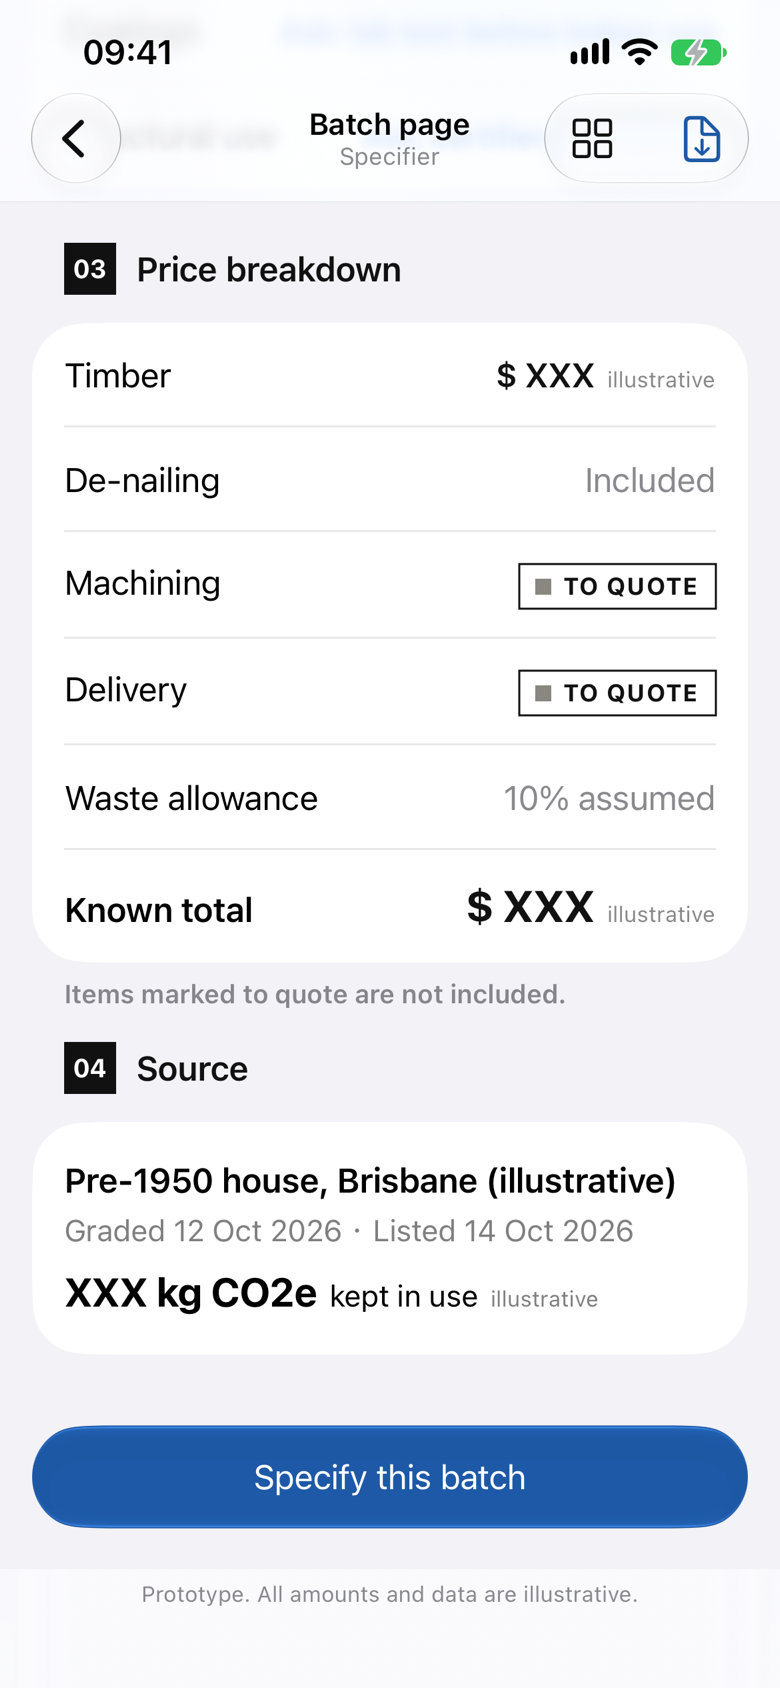
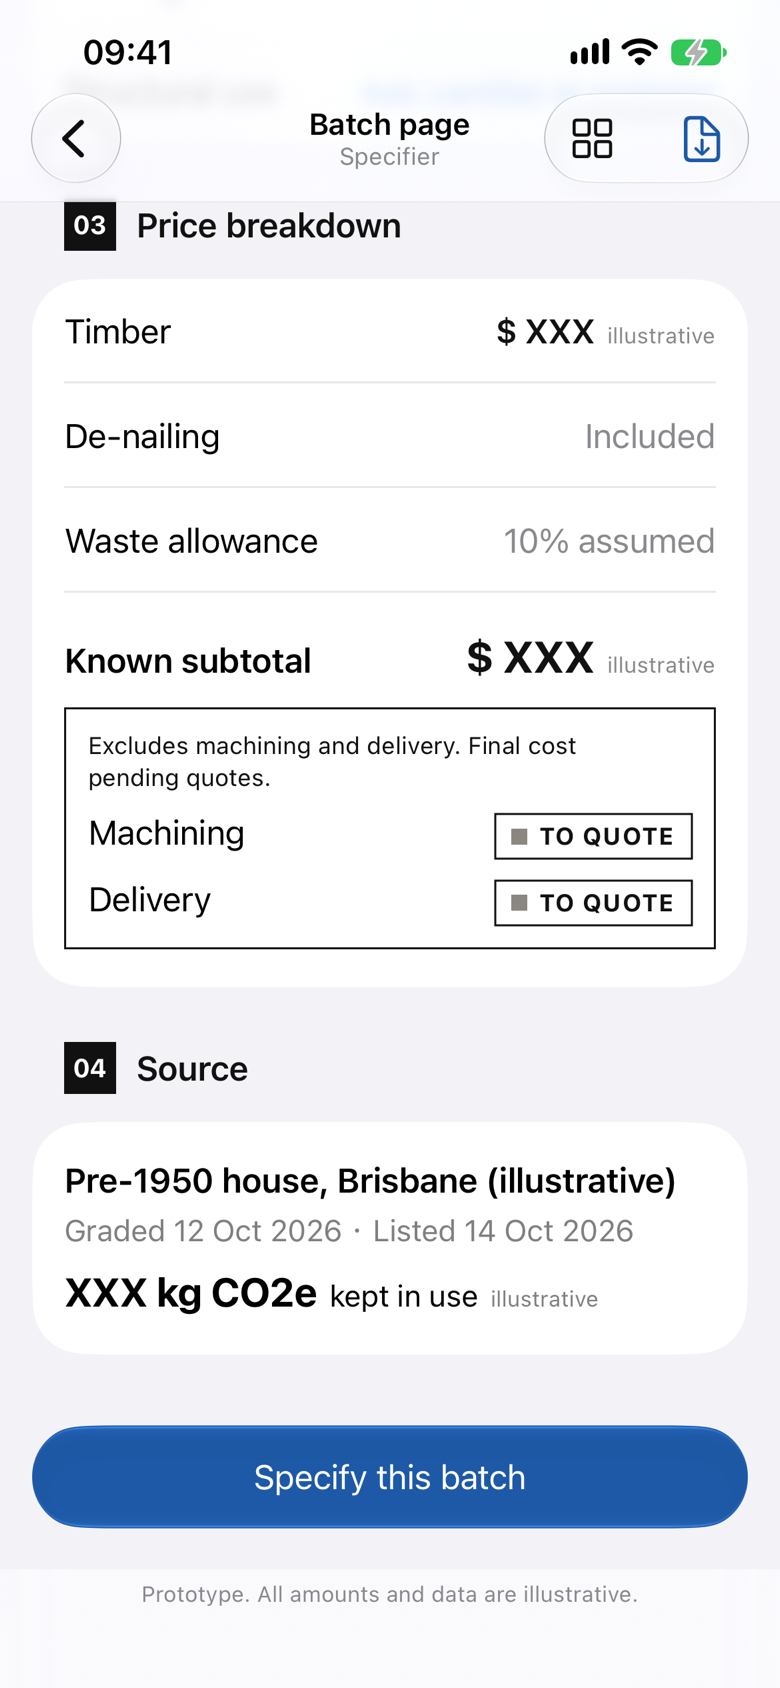
App v2 from 6.4 user testing: NOT PAID YET tag and rules on listing, Known subtotal with excluded costs, accept warning (web and iOS)

Changed region(s): [[0.0615, 0.0924, 0.5846, 0.5545], [0.5846, 0.1848, 0.9231, 0.5545], [0.0923, 0.5853, 0.7077, 0.6161]]

diff --git a/ios/NextSpan/Screens/ListingView.swift b/ios/NextSpan/Screens/ListingView.swift
@@ -2,6 +2,7 @@ import SwiftUI
 
 struct ListingView: View {
     @Environment(AppState.self) private var state
+    @State private var notAvailable = false
 
     private var priceNote: String {
         let n = abs(state.priceStep)
@@ -56,7 +57,19 @@ struct ListingView: View {
 
                 Section {
                     VStack(alignment: .leading, spacing: 12) {
-                        StatusTag(text: state.listed ? "Locked" : "Calculated", kind: state.listed ? .rebate : .neutral)
+                        HStack(spacing: 6) {
+                            StatusTag(text: state.listed ? "Locked" : "Calculated", kind: state.listed ? .rebate : .neutral)
+                            if state.listed {
+                                // v2: says plainly that LOCKED is not money in hand.
+                                Text("NOT PAID YET")
+                                    .font(.caption.weight(.bold)).tracking(0.6)
+                                    .foregroundStyle(Color.nsInk)
+                                    .padding(.horizontal, 8).padding(.vertical, 3)
+                                    .background(.white)
+                                    .overlay(Rectangle().strokeBorder(Color.nsInk, lineWidth: 2))
+                            }
+                        }
+                        .fixedSize(horizontal: false, vertical: true)
                         Money(font: .system(size: 44, weight: .bold))
                         ZStack(alignment: .leading) {
                             Rectangle().stroke(Color.nsRebate, lineWidth: 1)
@@ -66,8 +79,25 @@ struct ListingView: View {
                         .frame(height: 44)
                         .accessibilityHidden(true)
                         if state.listed {
-                            Text("Locked at listing. Released when a buyer accepts.")
-                                .font(.callout.weight(.semibold))
+                            VStack(alignment: .leading, spacing: 10) {
+                                RuleLine(n: 1, text: "Released only after a buyer accepts the batch.")
+                                RuleLine(n: 2, text: "No expiry while the batch stays listed.")
+                                RuleLine(n: 3, text: "If it does not sell, relist it or move pieces down a grade.")
+                            }
+                            .padding(.top, 4)
+                            HStack(spacing: 10) {
+                                Button { notAvailable = true } label: {
+                                    Text("Relist").frame(maxWidth: .infinity, minHeight: 40)
+                                }
+                                Button { notAvailable = true } label: {
+                                    Text("Move pieces down a grade")
+                                        .multilineTextAlignment(.center)
+                                        .frame(maxWidth: .infinity, minHeight: 40)
+                                }
+                            }
+                            .buttonStyle(.glass)
+                            .controlSize(.large)
+                            .padding(.top, 4)
                         }
                     }
                     .padding(.vertical, 6)
@@ -103,11 +133,6 @@ struct ListingView: View {
                     }
 
                     Section {
-                        Label("If no buyer accepts, the rebate stays locked. You can relist or move pieces down a grade.", systemImage: "lock")
-                            .font(.callout)
-                    }
-
-                    Section {
                         Button {
                             state.scannedMember = nil
                             state.path = [.search, .batch]
@@ -121,6 +146,9 @@ struct ListingView: View {
                         .listRowInsets(EdgeInsets())
                     }
                 }
+            }
+            .alert("Prototype: not available", isPresented: $notAvailable) {
+                Button("OK", role: .cancel) {}
             }
             .navigationTitle("Batch and listing")
             .navigationSubtitle("Developer")
@@ -146,6 +174,26 @@ private struct DemandTile: View {
         .padding(16)
         .frame(maxWidth: .infinity, minHeight: 120, alignment: .topLeading)
         .background(Color.nsInkFixed, in: .rect(cornerRadius: 20, style: .continuous))
+        .accessibilityElement(children: .combine)
+    }
+}
+
+/// One numbered rule under the locked rebate. The number sits in a small square (brand element).
+private struct RuleLine: View {
+    let n: Int
+    let text: String
+
+    var body: some View {
+        HStack(alignment: .firstTextBaseline, spacing: 10) {
+            Text("\(n)")
+                .font(.caption.weight(.bold).monospacedDigit())
+                .foregroundStyle(.white)
+                .frame(width: 20, height: 20)
+                .background(Color.nsInkFixed)
+                .alignmentGuide(.firstTextBaseline) { $0[VerticalAlignment.center] + 5 }
+            Text(text).font(.callout.weight(.semibold))
+                .fixedSize(horizontal: false, vertical: true)
+        }
         .accessibilityElement(children: .combine)
     }
 }

diff --git a/src/screens/Listing.jsx b/src/screens/Listing.jsx
@@ -1,5 +1,6 @@
+import { useState } from 'react';
 import { go } from '../router.js';
-import { Screen, Section, Row, Button, Money, StatusTag, RebateBar, Stepper } from '../components/ui.jsx';
+import { Screen, Section, Row, Button, Money, StatusTag, RebateBar, Stepper, Alert } from '../components/ui.jsx';
 import GradeBadge from '../components/GradeBadge.jsx';
 import { BATCH, PRICE, DEMAND } from '../demo-data.js';
 
@@ -14,6 +15,7 @@ function priceNote(step) {
 export default function Listing({ listing, setListing }) {
   const { locked, priceStep } = listing;
   const set = (patch) => setListing({ ...listing, ...patch });
+  const [notAvailable, setNotAvailable] = useState(false);
 
   return (
     <Screen side="developer" back="/grade" title="Batch and listing" subtitle="Developer">
@@ -44,10 +46,25 @@ export default function Listing({ listing, setListing }) {
 
       <Section num="03" title="Rebate">
         <Row className="pad-lg rebate-row">
-          <StatusTag kind={locked ? 'rebate' : 'neutral'}>{locked ? 'Locked' : 'Calculated'}</StatusTag>
+          <div className="tag-pair">
+            <StatusTag kind={locked ? 'rebate' : 'neutral'}>{locked ? 'Locked' : 'Calculated'}</StatusTag>
+            {locked && <span className="tag tag-strong">Not paid yet</span>}
+          </div>
           <Money size={44} />
           <div className={`rebate-meter ${locked ? 'is-locked' : ''}`} aria-hidden="true"><div className="rebate-fill" /></div>
-          {locked && <p className="callout strong-text" role="status">Locked at listing. Released when a buyer accepts.</p>}
+          {locked && (
+            <>
+              <ol className="rules" role="status">
+                <li><span className="rule-num" aria-hidden="true">1</span>Released only after a buyer accepts the batch.</li>
+                <li><span className="rule-num" aria-hidden="true">2</span>No expiry while the batch stays listed.</li>
+                <li><span className="rule-num" aria-hidden="true">3</span>If it does not sell, relist it or move pieces down a grade.</li>
+              </ol>
+              <div className="btn-row rule-actions">
+                <Button variant="glass" onClick={() => setNotAvailable(true)}>Relist</Button>
+                <Button variant="glass" onClick={() => setNotAvailable(true)}>Move pieces down a grade</Button>
+              </div>
+            </>
+          )}
         </Row>
       </Section>
 
@@ -63,17 +80,12 @@ export default function Listing({ listing, setListing }) {
               <div><span className="display">{DEMAND.views}</span><span>Viewed {DEMAND.views} times</span></div>
             </div>
           </Section>
-          <Section>
-            <Row className="pad-lg row-flex lock-note">
-              <svg width="22" height="22" viewBox="0 0 24 24" aria-hidden="true"><rect x="5" y="10.5" width="14" height="10" rx="2" fill="none" stroke="currentColor" strokeWidth="1.7" /><path d="M8 10.5V7.5a4 4 0 0 1 8 0v3" fill="none" stroke="currentColor" strokeWidth="1.7" /></svg>
-              <span className="callout">If no buyer accepts, the rebate stays locked. You can relist or move pieces down a grade.</span>
-            </Row>
-          </Section>
           <div className="actions" style={{ '--tint': 'var(--ns-grade-a)' }}>
             <Button onClick={() => go('/batch/NS-0412')}>View as a buyer</Button>
           </div>
         </>
       )}
+      {notAvailable && <Alert text="Prototype: not available" onClose={() => setNotAvailable(false)} />}
     </Screen>
   );
 }

diff --git a/ios/NextSpan/Screens/BatchView.swift b/ios/NextSpan/Screens/BatchView.swift
@@ -70,18 +70,27 @@ struct BatchView: View {
             Section {
                 LabeledContent("Timber") { Money(font: .body.weight(.semibold)).foregroundStyle(Color.nsInk) }
                 LabeledContent("De-nailing", value: "Included")
-                LabeledContent("Machining") { StatusTag(text: "To quote", kind: .quote) }
-                LabeledContent("Delivery") { StatusTag(text: "To quote", kind: .quote) }
                 LabeledContent("Waste allowance", value: "10% assumed")
-                LabeledContent {
-                    Money(font: .title2.weight(.bold)).foregroundStyle(Color.nsInk)
-                } label: {
-                    Text("Known total").font(.headline)
+                VStack(alignment: .leading, spacing: 12) {
+                    LabeledContent {
+                        Money(font: .title2.weight(.bold)).foregroundStyle(Color.nsInk)
+                    } label: {
+                        Text("Known subtotal").font(.headline)
+                    }
+                    // v2: what the subtotal leaves out sits right under it, in one square frame.
+                    VStack(alignment: .leading, spacing: 10) {
+                        Text("Excludes machining and delivery. Final cost pending quotes.")
+                            .font(.caption)
+                            .foregroundStyle(Color.nsInk)
+                        LabeledContent("Machining") { StatusTag(text: "To quote", kind: .quote) }
+                        LabeledContent("Delivery") { StatusTag(text: "To quote", kind: .quote) }
+                    }
+                    .padding(12)
+                    .overlay(Rectangle().strokeBorder(Color.nsInk, lineWidth: 1))
                 }
+                .padding(.vertical, 4)
             } header: {
                 NumberedHeader(number: "03", title: "Price breakdown")
-            } footer: {
-                Text("Items marked to quote are not included.").font(.footnote.weight(.semibold))
             }
             .id("price")
 

diff --git a/src/screens/Batch.jsx b/src/screens/Batch.jsx
@@ -51,15 +51,20 @@ export default function Batch({ params }) {
         ))}
       </Section>
 
-      <Section num="03" title="Price breakdown" footer="Items marked to quote are not included." footerStrong>
+      <Section num="03" title="Price breakdown" id="price">
         <LabeledRow label="Timber"><Money size={17} /></LabeledRow>
         <LabeledRow label="De-nailing">Included</LabeledRow>
-        <LabeledRow label="Machining"><StatusTag kind="quote">To quote</StatusTag></LabeledRow>
-        <LabeledRow label="Delivery"><StatusTag kind="quote">To quote</StatusTag></LabeledRow>
         <LabeledRow label="Waste allowance">10% assumed</LabeledRow>
-        <Row className="row-flex">
-          <span className="headline">Known total</span>
-          <Money size={24} />
+        <Row className="pad-lg subtotal">
+          <div className="row-flex">
+            <span className="headline">Known subtotal</span>
+            <Money size={24} />
+          </div>
+          <div className="excluded">
+            <p className="excluded-note">Excludes machining and delivery. Final cost pending quotes.</p>
+            <div className="row-flex"><span className="row-label">Machining</span><StatusTag kind="quote">To quote</StatusTag></div>
+            <div className="row-flex"><span className="row-label">Delivery</span><StatusTag kind="quote">To quote</StatusTag></div>
+          </div>
         </Row>
       </Section>
 

diff --git a/src/styles/ios.css b/src/styles/ios.css
@@ -436,3 +436,16 @@ ul, ol { list-style: none; }
 .section { scroll-margin: 90px 0 70px; }
 .cert-seg .sub-label { position: absolute; width: 1px; height: 1px; overflow: hidden; clip: rect(0 0 0 0); }
 .cert-slide .secondary { font-size: 15px; }
+
+/* ---------- v2 changes (6.4 user testing) ---------- */
+.tag-pair { display: flex; gap: 6px; align-items: stretch; }
+.tag-strong { border: 2px solid var(--ns-ink); padding: 3px 8px; }
+.rules { display: flex; flex-direction: column; gap: 10px; margin-top: 4px; font-size: 16px; font-weight: 600; line-height: 1.3; }
+.rules li { display: flex; gap: 10px; align-items: flex-start; }
+.rule-num { width: 20px; height: 20px; flex: none; display: grid; place-items: center; margin-top: 1px; background: var(--ns-ink); color: #fff; font-size: 12px; font-weight: 700; }
+.rule-actions { width: 100%; margin-top: 4px; }
+.rule-actions .btn { min-height: 56px; padding: 0 12px; line-height: 1.2; }
+.subtotal { display: flex; flex-direction: column; gap: 12px; }
+.excluded { display: flex; flex-direction: column; gap: 10px; padding: 12px; box-shadow: inset 0 0 0 1px var(--ns-ink); }
+.excluded-note { font-size: 12px; color: var(--ns-ink); }
+.accept-warning { margin-bottom: 12px; padding: 16px; background: var(--ns-rebate); color: #fff; font-size: 19px; font-weight: 700; line-height: 1.3; }

diff --git a/ios/NextSpan/Screens/AcceptView.swift b/ios/NextSpan/Screens/AcceptView.swift
@@ -69,6 +69,18 @@ struct AcceptView: View {
                 .controlSize(.large)
                 .listRowBackground(Color.clear)
                 .listRowInsets(EdgeInsets(top: 10, leading: 0, bottom: 0, trailing: 0))
+            } header: {
+                // v2: say what Accept does before it is pressed. A header, so the list
+                // does not round its corners (square brand block).
+                Text("Accepting this batch releases the developer's rebate.")
+                    .font(.system(size: 19, weight: .bold))
+                    .foregroundStyle(.white)
+                    .textCase(nil)
+                    .frame(maxWidth: .infinity, alignment: .leading)
+                    .padding(16)
+                    .background(Color.nsRebate)
+                    .padding(.horizontal, -16)
+                    .padding(.bottom, 10)
             } footer: {
                 Text("Generic framework. Not an official Brisbane City Council document.")
                     .padding(.top, 8)

diff --git a/src/screens/Accept.jsx b/src/screens/Accept.jsx
@@ -31,6 +31,7 @@ function Before({ delivered, setDelivered, onAccept, onScan, onReject }) {
       </Section>
 
       <div className="actions">
+        <p className="accept-warning">Accepting this batch releases the developer's rebate.</p>
         <Button onClick={onAccept}>Accept batch</Button>
         <Button variant="glass" className="btn-danger" onClick={onReject}>Report a grade mismatch</Button>
       </div>
